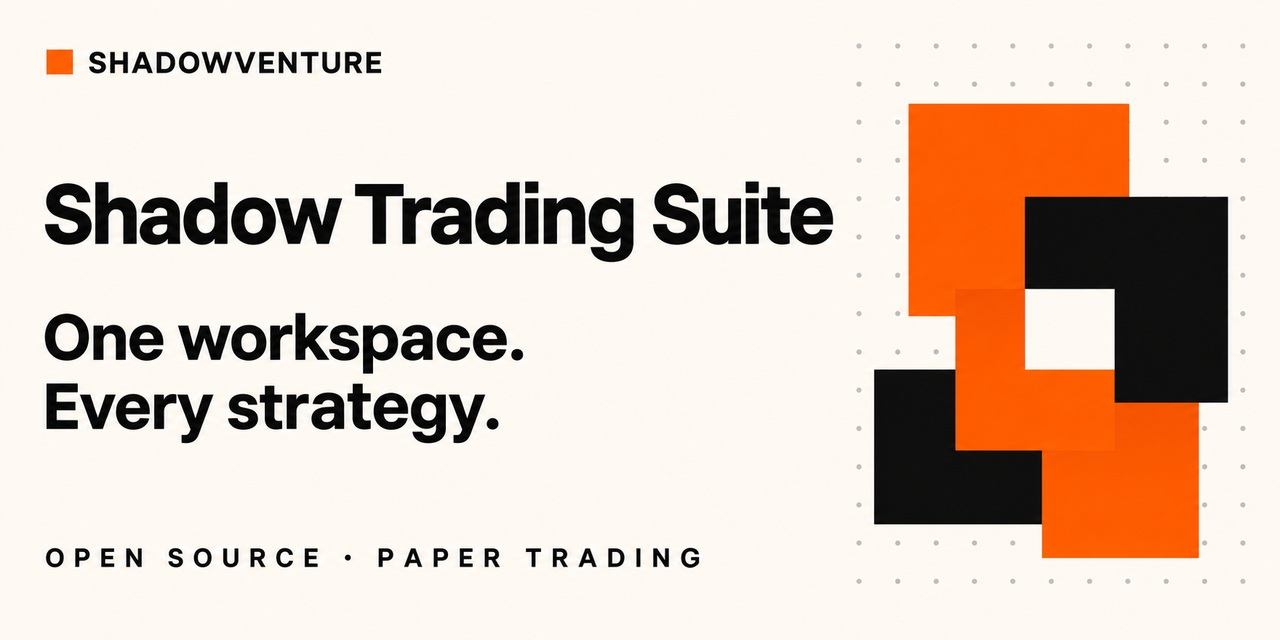
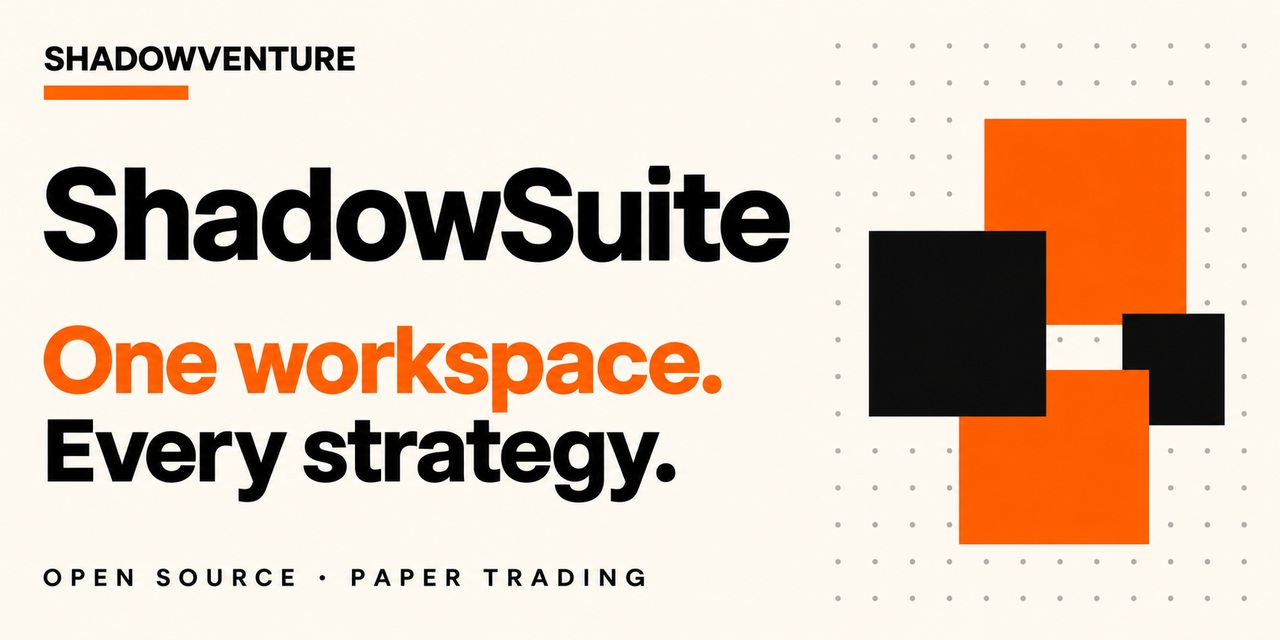
docs: establish ShadowVenture project identity and community overview

diff --git a/README.md b/README.md
@@ -1,6 +1,6 @@
-![Shadow Trading Suite — One workspace. Every strategy.](docs/branding/banner.jpg)
+![ShadowSuite — One workspace. Every strategy.](docs/branding/banner.jpg)
 
-# Shadow Trading Suite
+# ShadowSuite
 
 **An open-source, paper-trading-only platform for crypto trading bots, shipped without any bot.**
 You bring your own bot as a plugin. The suite provides market-data adapters, a double-entry
@@ -21,14 +21,14 @@ Licence: **GPL-3.0-only** (see [LICENSE](LICENSE), [NOTICE](NOTICE) and
 
 Start with the [offline demo](#start-without-bots), read the
 [plugin guide](docs/plugins.md), or choose a
-[good first issue](https://github.com/ShadowVenture/Shadow-Trading-Suite/issues?q=is%3Aissue%20is%3Aopen%20label%3A%22good%20first%20issue%22).
+[good first issue](https://github.com/ShadowVenture/ShadowSuite/issues?q=is%3Aissue%20is%3Aopen%20label%3A%22good%20first%20issue%22).
 Bug reports, documentation improvements and reproducible offline tests are welcome.
 See [CONTRIBUTING.md](CONTRIBUTING.md) for the contribution process.
 
 ## What it does
 
 ```
-            your bot (plugin)                       Shadow Trading Suite
+            your bot (plugin)                       ShadowSuite
   +------------------------------+   MarketView  +-----------------------------------------+
   | manifest, configure,         |<--------------| market state (public data, LIVE/stale)  |
   | on_market -> Decision        |               |                                         |
@@ -82,8 +82,8 @@ Requirements: Linux (tested on Ubuntu, x86_64) and Python 3.12, 3.13 or 3.14. Se
 From a clone, with [uv](https://docs.astral.sh/uv/):
 
 ```bash
-git clone https://github.com/ShadowVenture/Shadow-Trading-Suite.git
-cd Shadow-Trading-Suite
+git clone https://github.com/ShadowVenture/ShadowSuite.git
+cd ShadowSuite
 uv sync --frozen          # installs the locked dependencies into .venv
 uv run pytest             # offline test suite (network sockets disabled)
 ```
